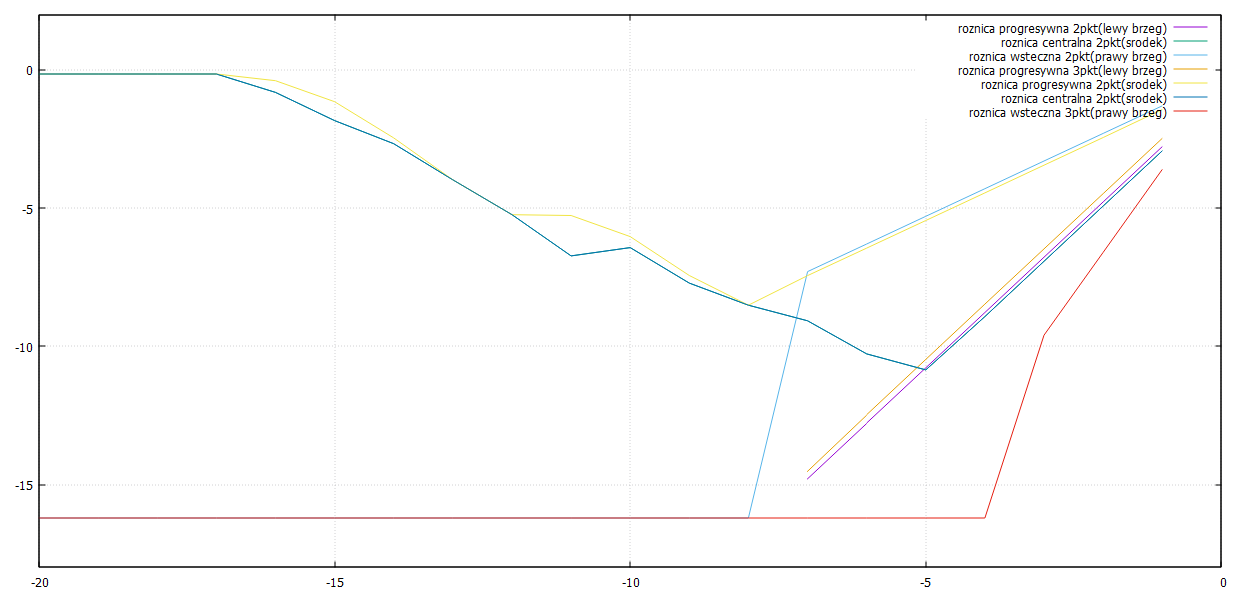
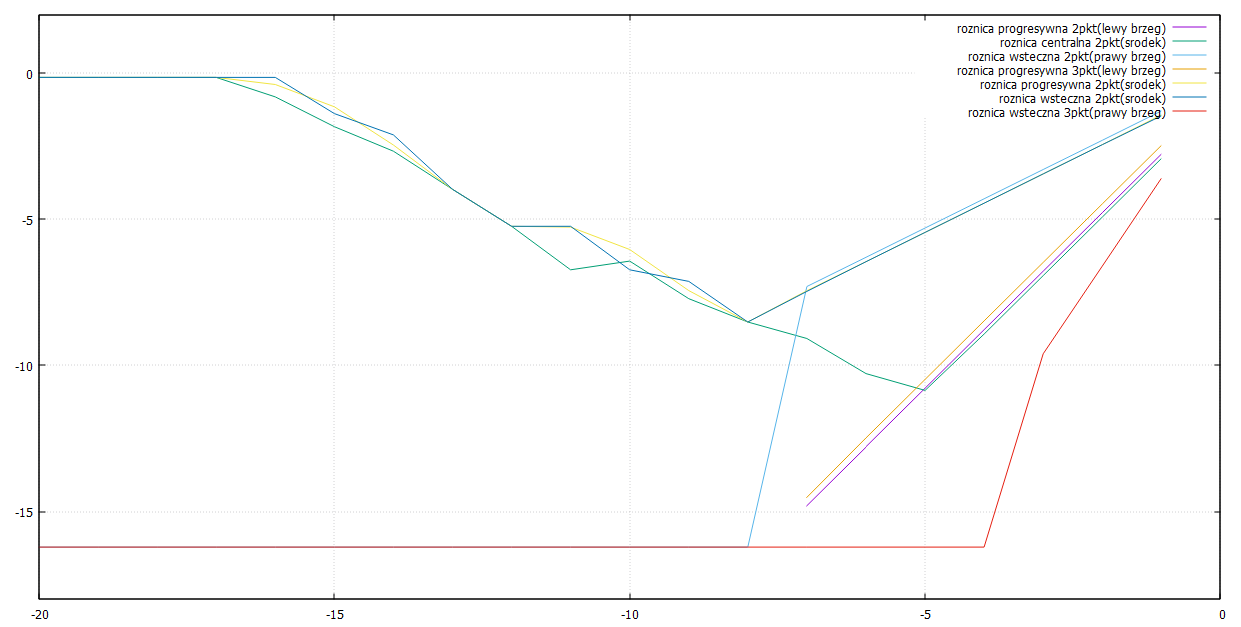
lab8 fix

diff --git a/lab8/lab8.cpp b/lab8/lab8.cpp
@@ -25,7 +25,7 @@ string nazwa(int i) {
         return "roznica progresywna dwupunktowa (srodek) (teoria: 1)";
         break;
     case 5:
-        return "roznica centralna dwupunktowa (srodek) (teoria: 1)";
+        return "roznica wsteczna dwupunktowa (srodek) (teoria: 1)";
         break;
     case 6:
         return "roznica wsteczna trzypunktowa (prawy brzeg) (teoria: 2)";
@@ -68,7 +68,7 @@ T roznica_progresywna_3pkt(T x, T h) {
 
 template < typename T >
 T roznica_wsteczna_3pkt(T x, T h) {
-    return ((1.0 / 2.0) * sin(x - 2.0 * h) - 2.0 * sin(x - h) + (3.0 / 2.0) * sin(x)) / h;
+    return ((1.0 / 2.0) * sin(x - 2.0*h) - 2.0 * sin(x - h) + (3.0 / 2.0) * sin(x)) / h;
 }
 
 template<typename T>
@@ -100,7 +100,7 @@ T **oblicz(T** tablica) {
         tablica[i][4] = roznica_progresywna_2pkt(mid, h);
         talibca_bledow[i][4] = fabs(pochodna_f(mid) - tablica[i][4]);
 
-        tablica[i][5] = roznica_centralna_2pkt(mid, h);
+        tablica[i][5] = roznica_wsteczna_2pkt(mid, h);
         talibca_bledow[i][5] = fabs(pochodna_f(mid) - tablica[i][5]);
 
         tablica[i][6] = roznica_wsteczna_3pkt(b, h);
